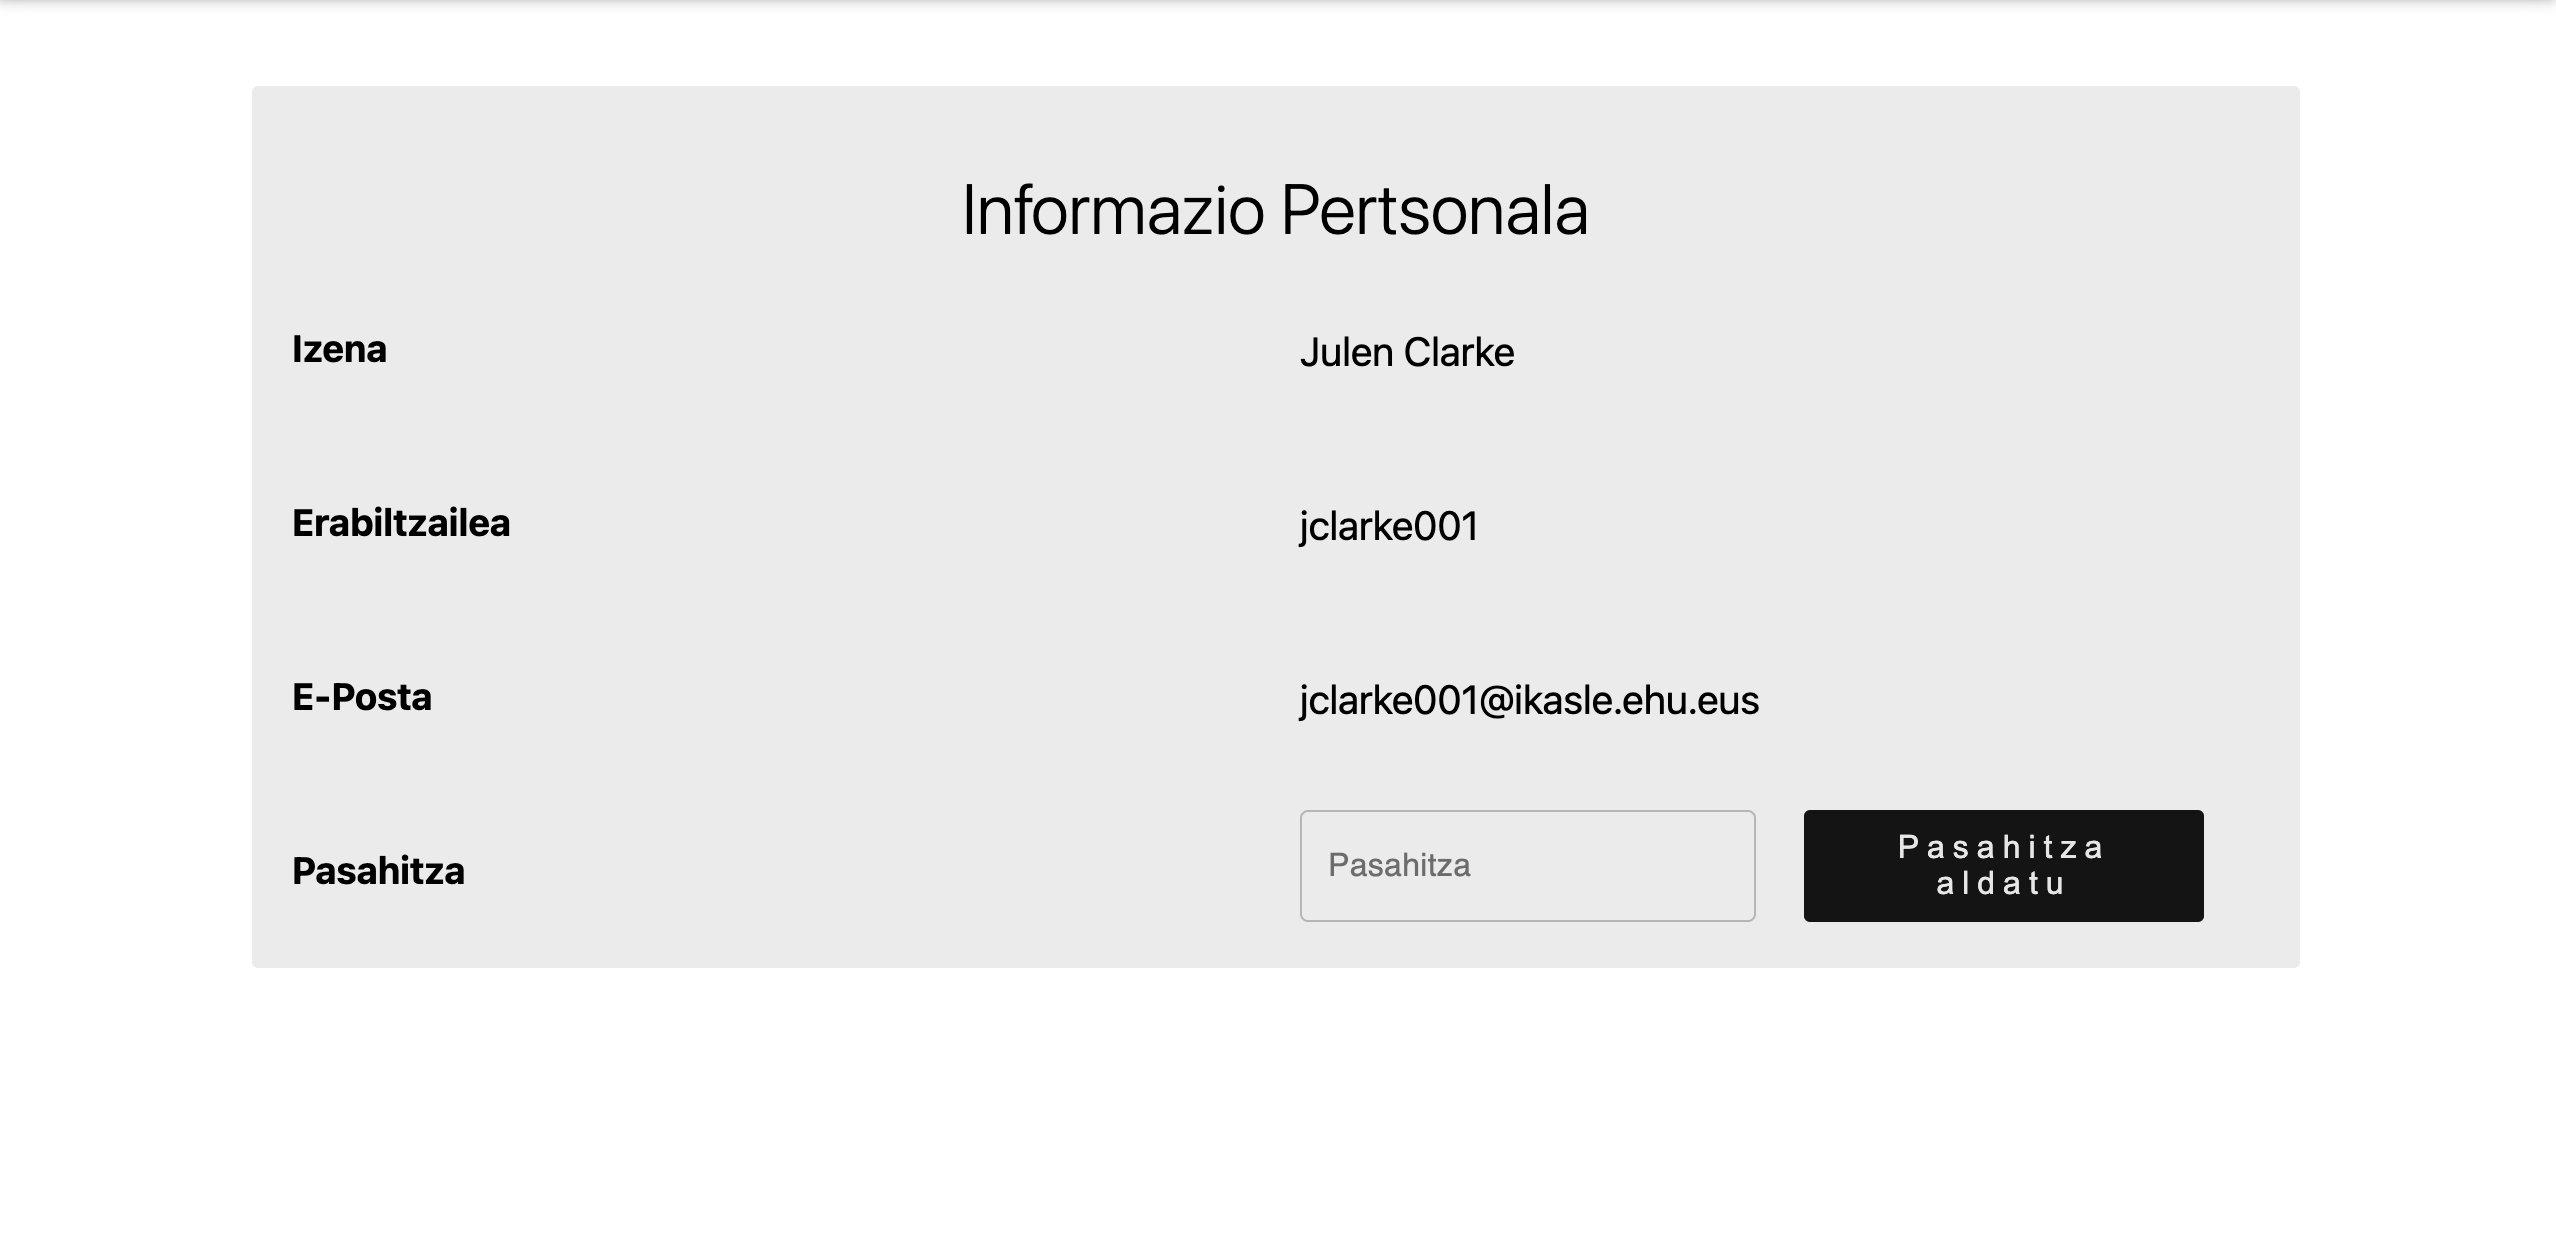
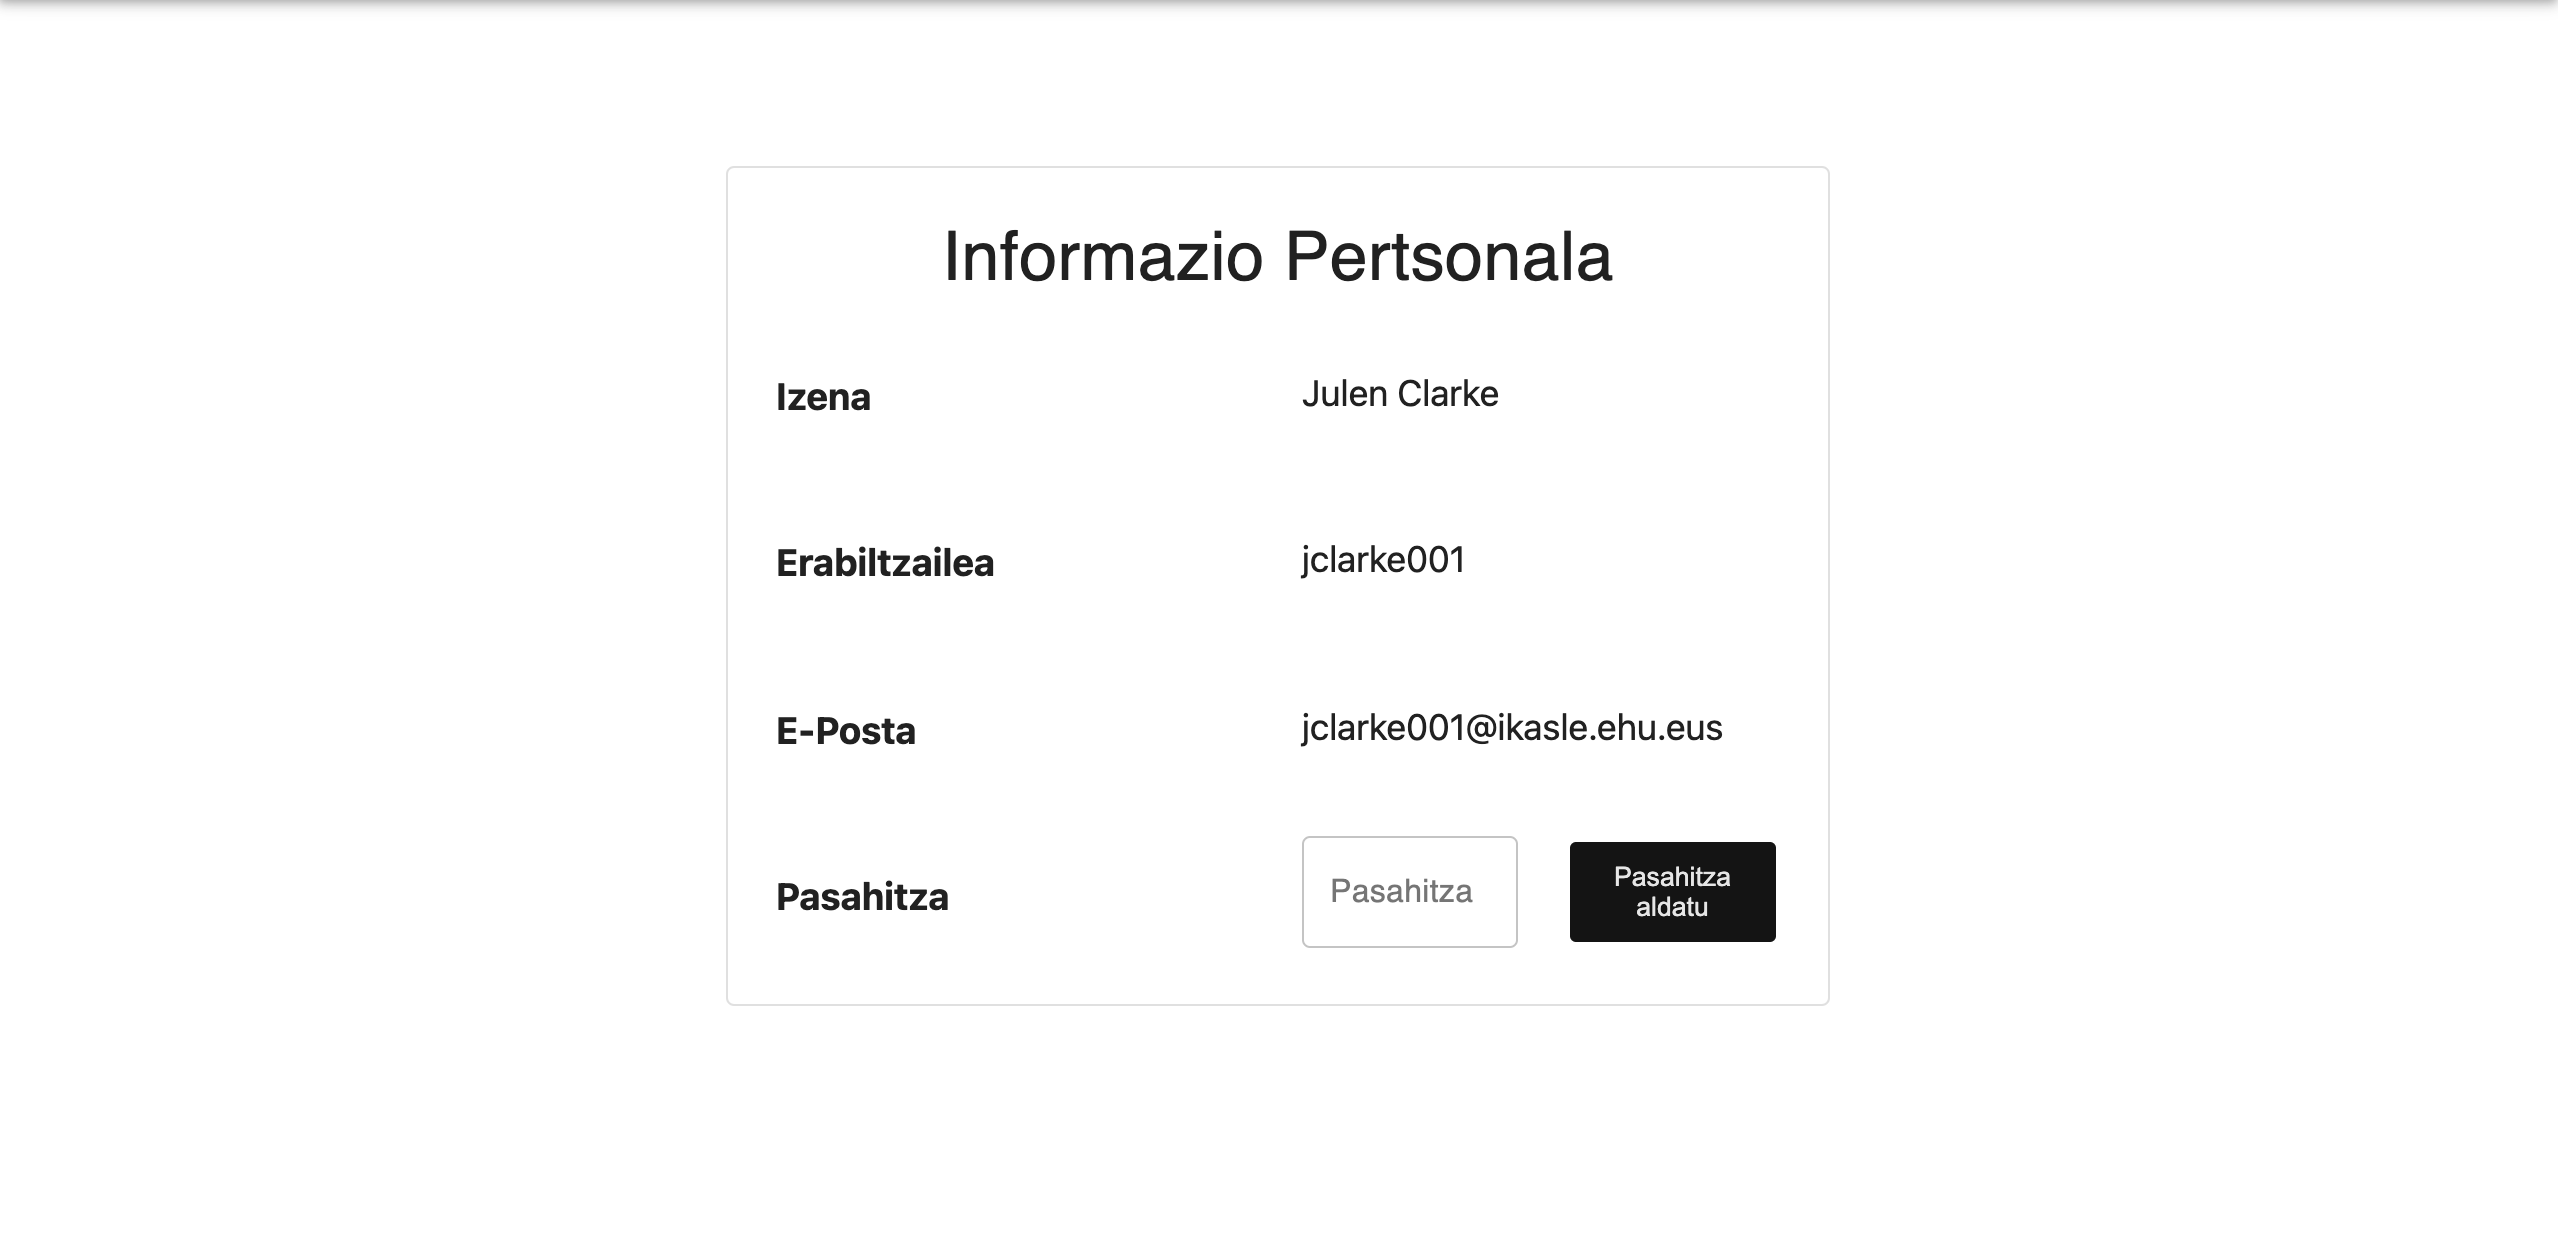
Styled Profile page.

diff --git a/app/components/Profile.js b/app/components/Profile.js
@@ -10,6 +10,26 @@ import Checkbox from '@material-ui/core/Checkbox'
 import Button from '@material-ui/core/Button'
 import { makeStyles } from '@material-ui/core/styles'
 import { deepOrange, deepPurple } from '@material-ui/core/colors'
+import Container from '@mui/material/Container';
+import Paper from '@mui/material/Paper';
+import { createTheme, ThemeProvider } from '@mui/material/styles';
+
+const theme = createTheme({
+  palette: {
+    primary: {
+      light: '#333333',
+      main: '#000',
+      dark: '#000',
+      contrastText: '#fff',
+    },
+    secondary: {
+      light: '#000',
+      main: '#000',
+      dark: '#000',
+      contrastText: '#fff',
+    },
+  },
+});
 
 function ProfileList ({ repos, selected, onHandlePassChanged }) {
   var language = {}
@@ -29,56 +49,62 @@ function ProfileList ({ repos, selected, onHandlePassChanged }) {
   }
 
   return (
-    <div className='grid space-around container-sm'>
-      <Card
-        header={language.personalinfo}
-      >
-        <Grid container spacing={3}>
-          <Grid item xs={12} sm={6}>
-            <h3> {language.name} </h3>
-          </Grid>
-          <Grid item xs={12} sm={6}>
-            <p> Julen Clarke </p>
-          </Grid>
-          <Grid item xs={12} sm={6}>
-            <h3> {language.username} </h3>
-          </Grid>
-          <Grid item xs={12} sm={6}>
-            <p> jclarke001 </p>
-          </Grid>
-          <Grid item xs={12} sm={6}>
-            <h3> {language.email} </h3>
-          </Grid>
-          <Grid item xs={12} sm={6}>
-            <p> jclarke001@ikasle.ehu.eus </p>
-          </Grid>
-          <Grid item xs={12} sm={6}>
-            <h3> {language.password} </h3>
-          </Grid>
-          <Grid item xs={6} sm={3}>
-            <TextField
-                variant="outlined"
+    <ThemeProvider theme={theme}>
+      <Container component="main" maxWidth="sm" sx={{ mb: 4 }}>
+        <Paper variant="outlined" sx={{ my: { xs: 3, md: 6 }, p: { xs: 2, md: 3 } }}>
+          <Typography component="h1" variant="h4" align="center">
+            {language.personalinfo}
+          </Typography>
+          <br />
+          <Grid container spacing={3}>
+            <Grid item xs={12} sm={6}>
+              <h3> {language.name} </h3>
+            </Grid>
+            <Grid item xs={12} sm={6}>
+              <p> Julen Clarke </p>
+            </Grid>
+            <Grid item xs={12} sm={6}>
+              <h3> {language.username} </h3>
+            </Grid>
+            <Grid item xs={12} sm={6}>
+              <p> jclarke001 </p>
+            </Grid>
+            <Grid item xs={12} sm={6}>
+              <h3> {language.email} </h3>
+            </Grid>
+            <Grid item xs={12} sm={6}>
+              <p> jclarke001@ikasle.ehu.eus </p>
+            </Grid>
+            <Grid item xs={12} sm={6}>
+              <h3> {language.password} </h3>
+            </Grid>
+            <Grid item xs={6} sm={3}>
+              <TextField
+                  variant="outlined"
+                  fullWidth
+                  name="password"
+                  label={language.password}
+                  type="password"
+                  id="password"
+                  autoComplete="current-password"
+              >
+              </TextField>
+            </Grid>
+            <Grid item xs={6} sm={3}>
+              <button
+                type="submit"
                 fullWidth
-                name="password"
-                label={language.password}
-                type="password"
-                id="password"
-                autoComplete="current-password"
-            >
-            </TextField>
+                variant="contained"
+                className="pbtn dark-btn"
+                onClick={() => {onHandlePassChanged()}}
+              >
+                {language.changepass}
+              </button>
+            </Grid>
           </Grid>
-          <Grid item xs={6} sm={3}>
-            <button
-              className='btn dark-btn'
-              type='submit'
-              onClick={() => {onHandlePassChanged()}}
-            >
-              {language.changepass}
-            </button>
-          </Grid>
-        </Grid>
-      </Card>
-    </div>
+        </Paper>
+      </Container>
+    </ThemeProvider>
   )
 }
 
@@ -100,39 +126,43 @@ function ProfileListPassChanged ({ repos, selected }) {
   }
 
   return (
-    <div className='grid space-around container-sm'>
-      <Card
-        header={language.personalinfo}
-      >
-        <Grid container spacing={3}>
-          <Grid item xs={12} sm={6}>
-            <h3> {language.name} </h3>
+    <ThemeProvider theme={theme}>
+      <Container component="main" maxWidth="sm" sx={{ mb: 4 }}>
+        <Paper variant="outlined" sx={{ my: { xs: 3, md: 6 }, p: { xs: 2, md: 3 } }}>
+          <Typography component="h1" variant="h4" align="center">
+            {language.personalinfo}
+          </Typography>
+          <br />
+          <Grid container spacing={3}>
+            <Grid item xs={12} sm={6}>
+              <h3> {language.name} </h3>
+            </Grid>
+            <Grid item xs={12} sm={6}>
+              <p> Julen Clarke </p>
+            </Grid>
+            <Grid item xs={12} sm={6}>
+              <h3> {language.username} </h3>
+            </Grid>
+            <Grid item xs={12} sm={6}>
+              <p> jclarke001 </p>
+            </Grid>
+            <Grid item xs={12} sm={6}>
+              <h3> {language.email} </h3>
+            </Grid>
+            <Grid item xs={12} sm={6}>
+              <p> jclarke001@ikasle.ehu.eus </p>
+            </Grid>
+            <Grid item xs={12} sm={6}>
+              <h3> {language.password} </h3>
+            </Grid>
+            <Grid item xs={12} sm={6}>
+            {/*Add more styling.*/}
+              <p> {language.passchangesuccess} </p>
+            </Grid>
           </Grid>
-          <Grid item xs={12} sm={6}>
-            <p> Julen Clarke </p>
-          </Grid>
-          <Grid item xs={12} sm={6}>
-            <h3> {language.username} </h3>
-          </Grid>
-          <Grid item xs={12} sm={6}>
-            <p> jclarke001 </p>
-          </Grid>
-          <Grid item xs={12} sm={6}>
-            <h3> {language.email} </h3>
-          </Grid>
-          <Grid item xs={12} sm={6}>
-            <p> jclarke001@ikasle.ehu.eus </p>
-          </Grid>
-          <Grid item xs={12} sm={6}>
-            <h3> {language.password} </h3>
-          </Grid>
-          <Grid item xs={12} sm={6}>
-          {/*Add more styling.*/}
-            <p> {language.passchangesuccess} </p>
-          </Grid>
-        </Grid>
-      </Card>
-    </div>
+        </Paper>
+      </Container>
+    </ThemeProvider>
   )
 }
 

diff --git a/app/components/ForgotPass.js b/app/components/ForgotPass.js
@@ -55,7 +55,6 @@ function ResetForm({ repos, selected, onHandleResetPass }) {
   return (
     <ThemeProvider theme={theme}>
       <Container component="main" maxWidth="xs">
-        <CssBaseline />
         <Box
           sx={{
             my: 8,
@@ -122,7 +121,6 @@ function ResetFormEmailSent({ repos, selected }) {
   return (
     <ThemeProvider theme={theme}>
       <Container component="main" maxWidth="xs">
-        <CssBaseline />
         <Box
           sx={{
             my: 8,

diff --git a/app/index.css b/app/index.css
@@ -17,7 +17,7 @@ li {
 }
 
 p {
-  font-size: 20px;
+  font-size: 18px;
 }
 
 h4 {
@@ -216,6 +216,15 @@ a {
   cursor: pointer;
   text-decoration: none;
   max-width: 200px;
+}
+
+.pbtn {
+  padding: 10px;
+  margin:  2.5px;
+  text-decoration: uppercase;
+  border-radius: 3px;
+  border: none;
+  display: flex;
 }
 
 .dark-btn {
